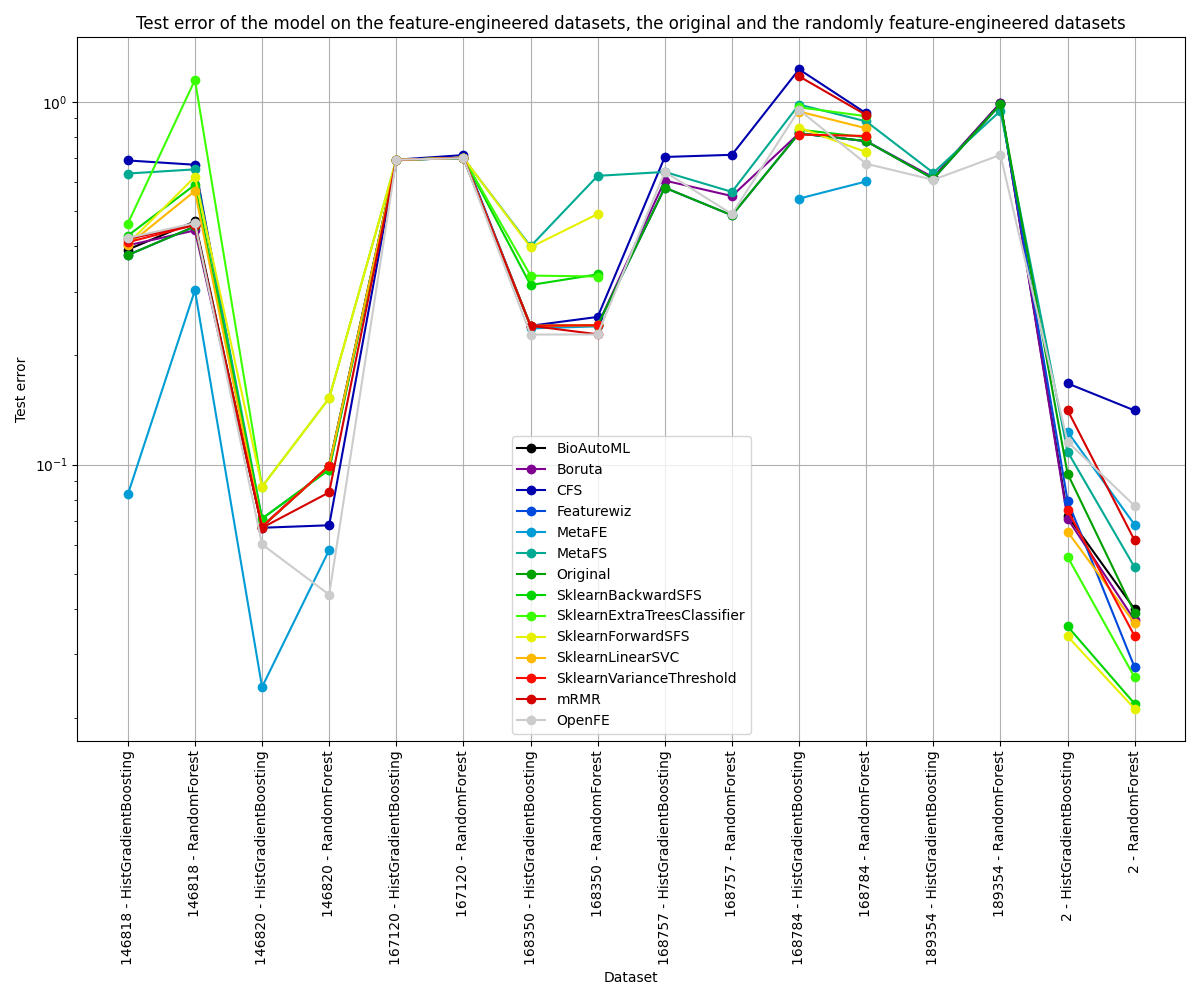
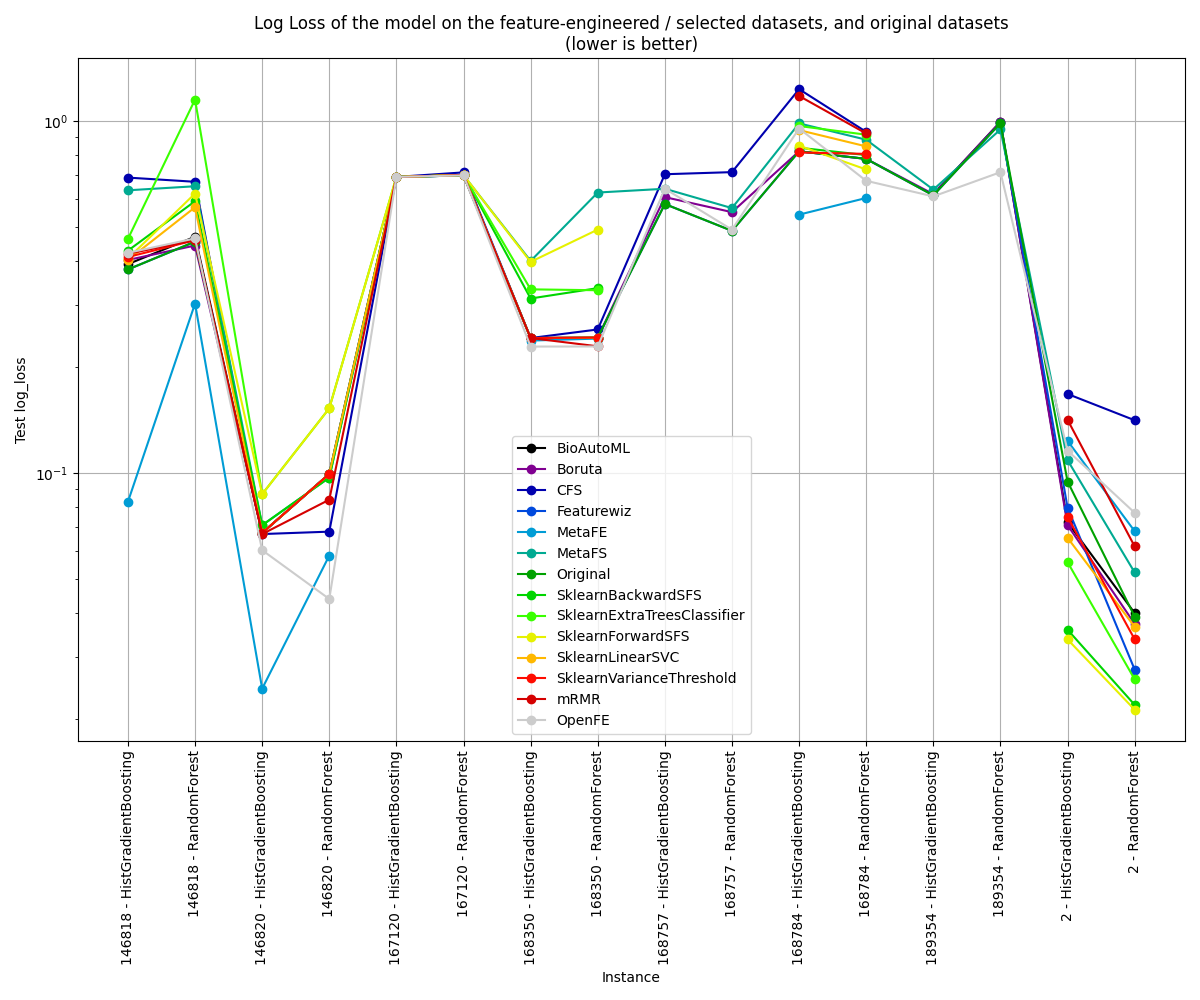
Adapt graph titles and add graphs without FE

diff --git a/src/results/analysis/analysis.py b/src/results/analysis/analysis.py
@@ -307,59 +307,6 @@ def make_latex_tables_as_one(df_pivot, df_pivot_std, without_openfe, columns_per
 """
 
 
-def plot_score_graph(dataset_list_wrapped, df_pivot, df_pivot_std, name):
-    if "without_FE" in name:
-        score_type = name.split("_")[0]
-        if score_type == "Val":
-            score_type = "validation"
-        else:
-            score_type = "test"
-        large_plot = True
-        without_fe = True
-        df_pivot = df_pivot.drop(columns=["OpenFE", "MetaFE"])
-    else:
-        if name == "Val":
-            score_type = "validation"
-        else:
-            score_type = "test"
-        large_plot = True
-        without_fe = False
-        column_to_move = df_pivot.pop("OpenFE")
-        df_pivot.insert(len(df_pivot.columns), "OpenFE", column_to_move)
-        # if score_type == "test":
-            # make_latex_tables_as_one(df_pivot, df_pivot_std, without_openfe)
-    if without_fe:
-        colors = cm.get_cmap('nipy_spectral')
-        color_list: list[ndarray | tuple[float, float, float, float]] = [colors(i) for i in np.linspace(0, 0.95, len(df_pivot.columns))]
-    else:
-        colors = cm.get_cmap('nipy_spectral', len(df_pivot.columns))
-
-    dataset_list_wrapped = df_pivot.index.tolist()
-    if large_plot:
-        plt.figure(figsize=(12, 10))
-        if without_fe:
-            for idx, method in enumerate(df_pivot.columns):
-                plt.plot(dataset_list_wrapped, df_pivot[method], marker='o', label=method, color=color_list[idx])
-        else:
-            for idx, method in enumerate(df_pivot.columns):
-                plt.plot(dataset_list_wrapped, df_pivot[method], marker='o', label=method, color=colors(idx))
-    else:
-        plt.figure(figsize=(12, 7))
-        for method in df_pivot.columns:
-            plt.plot(dataset_list_wrapped, df_pivot[method], marker='o', label=method)
-    plt.xlabel("Dataset")
-    plt.xticks(rotation=90)  # or 45
-    plt.ylabel(score_type.title() + " error")
-    plt.title(
-        score_type.title() + " error of the model on the feature-engineered datasets, the original and the randomly feature-engineered datasets")
-    plt.legend()
-    plt.yscale("log")
-    plt.grid(True)
-    plt.tight_layout()
-    plt.savefig("results/analysis/Graph_" + name + ".png")
-    plt.show()
-
-
 def plot_count_best(df_pivot_val, df_pivot_test, name, score_name):
     direction = get_metric_direction(score_name)
     if direction == "lower":
@@ -456,6 +403,64 @@ def plot_boxplot_percentage_impr(baseline_col, df_pivot, name, score_name):
     plt.xticks(rotation=90, ha="right")
     plt.tight_layout()
     plt.savefig(f"results/analysis/Boxplot_Percentage_Improvement_{name}.png")
+    plt.close()
+
+
+def plot_score_graph(dataset_list_wrapped, df_pivot, df_pivot_std, name, score_name):
+    direction = get_metric_direction(score_name)
+    if "without_FE" in name:
+        score_type = name.split("_")[0]
+        if score_type == "Val":
+            score_type = "validation"
+        else:
+            score_type = "test"
+        large_plot = True
+        without_fe = True
+        df_pivot = df_pivot.drop(columns=["OpenFE", "MetaFE"], errors='ignore')
+    else:
+        if name == "Val":
+            score_type = "validation"
+        else:
+            score_type = "test"
+        large_plot = True
+        without_fe = False
+        if "OpenFE" in df_pivot.columns:
+            column_to_move = df_pivot.pop("OpenFE")
+            df_pivot.insert(len(df_pivot.columns), "OpenFE", column_to_move)
+
+    if without_fe:
+        colors = cm.get_cmap('nipy_spectral')
+        color_list: list[ndarray | tuple[float, float, float, float]] = [colors(i) for i in
+                                                                         np.linspace(0, 0.95, len(df_pivot.columns))]
+    else:
+        colors = cm.get_cmap('nipy_spectral', len(df_pivot.columns))
+
+    dataset_list_wrapped = df_pivot.index.tolist()
+    if large_plot:
+        plt.figure(figsize=(12, 10))
+        if without_fe:
+            for idx, method in enumerate(df_pivot.columns):
+                plt.plot(dataset_list_wrapped, df_pivot[method], marker='o', label=method, color=color_list[idx])
+        else:
+            for idx, method in enumerate(df_pivot.columns):
+                plt.plot(dataset_list_wrapped, df_pivot[method], marker='o', label=method, color=colors(idx))
+    else:
+        plt.figure(figsize=(12, 7))
+        for method in df_pivot.columns:
+            plt.plot(dataset_list_wrapped, df_pivot[method], marker='o', label=method)
+
+    plt.xlabel("Instance")
+    plt.xticks(rotation=90)
+    plt.ylabel(f"{score_type.title()} {score_name}")
+    plt.title(
+        f"{score_name.replace('_', ' ').title()} of the model on the feature-engineered / selected datasets, "
+        f"and original datasets\n({direction} is better)"
+    )
+    plt.legend()
+    plt.yscale("log")
+    plt.grid(True)
+    plt.tight_layout()
+    plt.savefig(f"results/analysis/Graph_{name}.png")
     plt.close()
 
 
@@ -559,14 +564,12 @@ def analysis():
             df_pivot_test = df_pivot_test.drop(columns=["MACFE"])
             df_pivot_test_std = df_pivot_test_std.drop(columns=["MACFE"])
         except KeyError:
-            print("MACFE not found")
-        plot_score_graph(dataset_list, df_pivot_val, df_pivot_val_std, f"Val_{score_name}")
-        plot_score_graph(dataset_list, df_pivot_test, df_pivot_test_std, f"Test_{score_name}")
-
+            pass
+        plot_score_graph(dataset_list, df_pivot_val, df_pivot_val_std, f"Val_{score_name}", score_name)
+        plot_score_graph(dataset_list, df_pivot_test, df_pivot_test_std, f"Test_{score_name}", score_name)
         plot_count_best(df_pivot_val, df_pivot_test, f"{score_name}_", score_name)
         plot_avg_percentage_impr(baseline_col, df_pivot_val, df_pivot_val_std, f"Val_{score_name}", score_name)
         plot_avg_percentage_impr(baseline_col, df_pivot_test, df_pivot_test_std, f"Test_{score_name}", score_name)
-
         plot_boxplot_percentage_impr(baseline_col, df_pivot_val, f"Val_{score_name}", score_name)
         plot_boxplot_percentage_impr(baseline_col, df_pivot_test, f"Test_{score_name}", score_name)
 
@@ -576,6 +579,8 @@ def analysis():
         df_pivot_val_without_FE.drop(columns=["OpenFE", "MetaFE"], inplace=True, errors='ignore')
         df_pivot_test_without_FE.drop(columns=["OpenFE", "MetaFE"], inplace=True, errors='ignore')
 
+        plot_score_graph(dataset_list, df_pivot_val_without_FE, df_pivot_val_std, f"Val_{score_name}_without_FE_", score_name)
+        plot_score_graph(dataset_list, df_pivot_test_without_FE, df_pivot_test_std, f"Test_{score_name}_without_FE_", score_name)
         plot_count_best(df_pivot_val_without_FE, df_pivot_test_without_FE, f"{score_name}_without_FE_", score_name)
         plot_avg_percentage_impr(baseline_col, df_pivot_val_without_FE, df_pivot_val_std, f"Val_{score_name}_without_FE", score_name)
         plot_avg_percentage_impr(baseline_col, df_pivot_test_without_FE, df_pivot_test_std, f"Test_{score_name}_without_FE", score_name)
